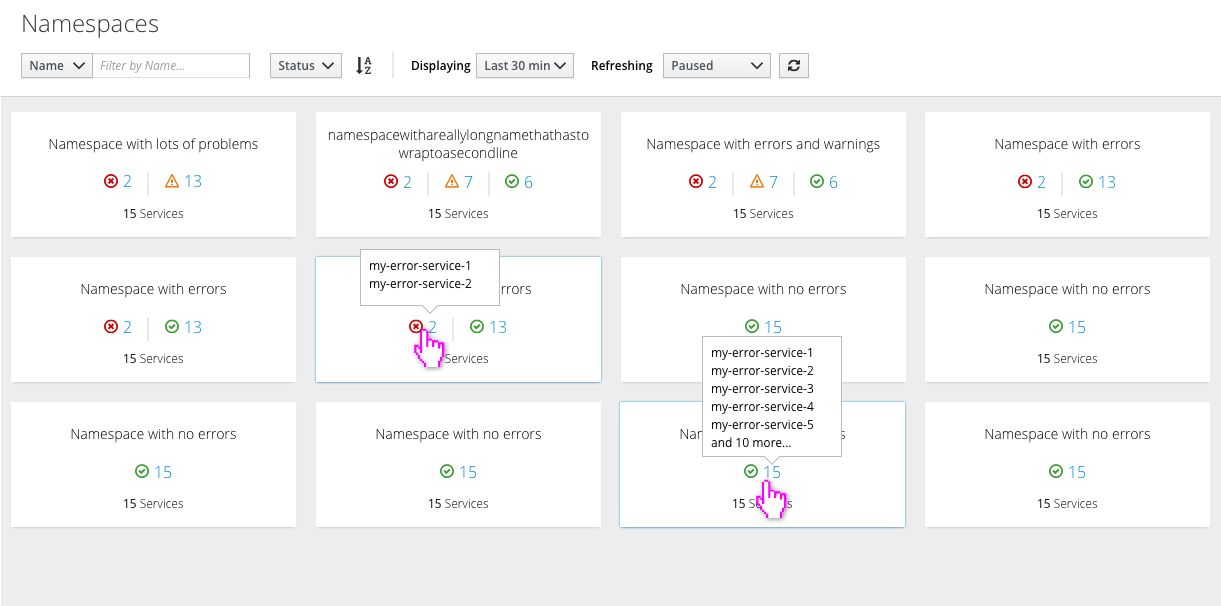
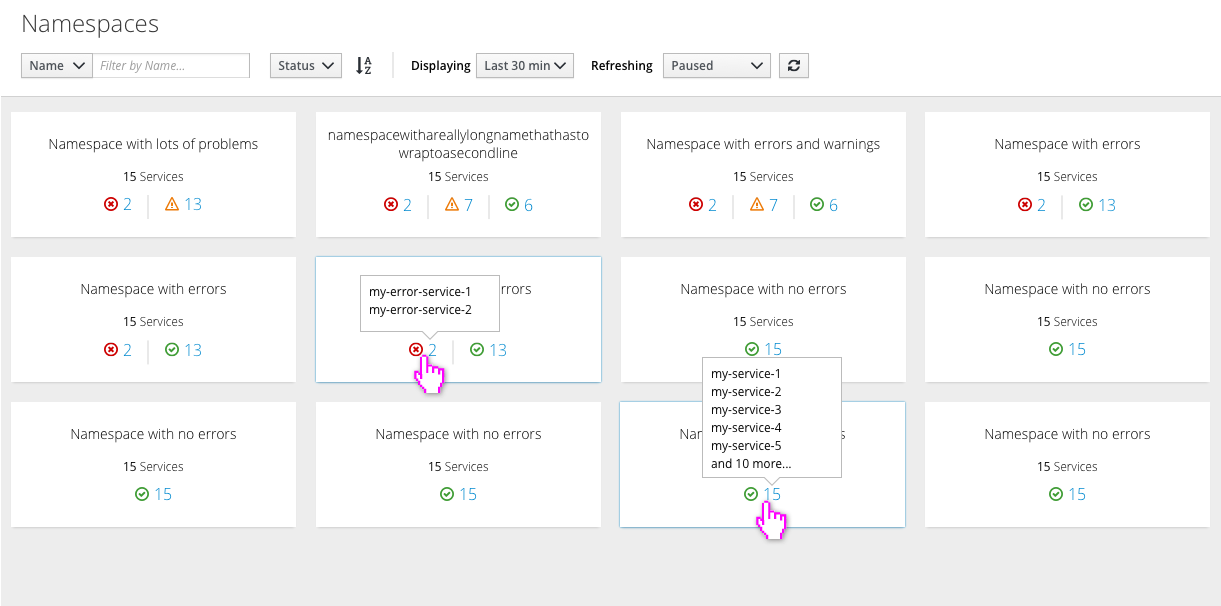
Update based on feedback

diff --git a/namespace-overview/design.md b/namespace-overview/design.md
@@ -7,11 +7,12 @@ The namespace overview would give a high-level summary of the health of the serv
 
 ### Namespace Cards
 - **Title:** Displays the name of the namespace. May wrap to a second line if necessary.
-- **Status Counts:** Shows the number of services with each status. Icons should only be shown for a given status if there are services in the namespace that have that status.
 - **Service Count:** The total number of services in the namespace.
+- **Status Counts:** Shows the number of services with each status. Icons should only be shown for a given status if there are services in the namespace that have that status.
+
 
 ### Card interactions
 - Clicking on a card links to a view of the services list filtered by the relevant namespace
 - Clicking on a status count links to a view of the services with that status in the selected namespace
-- Hovering over a status count displays a popover with a list of the services with that status.
+- Hovering over a status count displays a popover with a list of the names of services with that status.
   - If more than 6 services with a given status exist, the popover should show the names of the first 5 followed by the message "and # more..." to describe the total number
